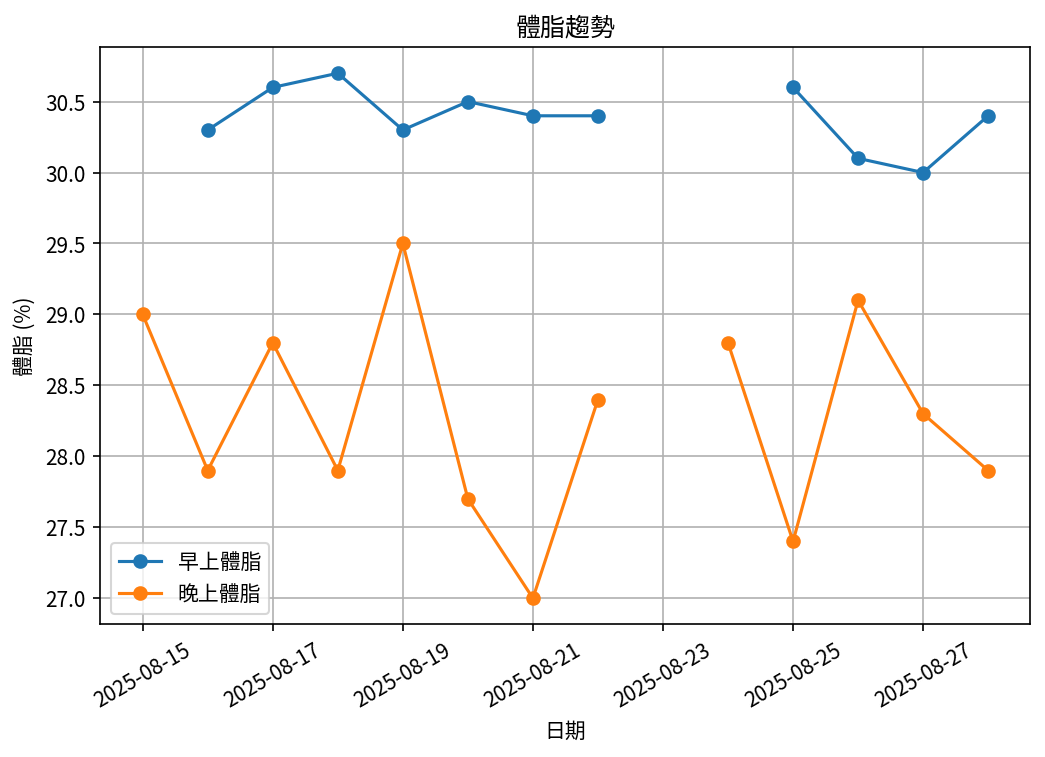
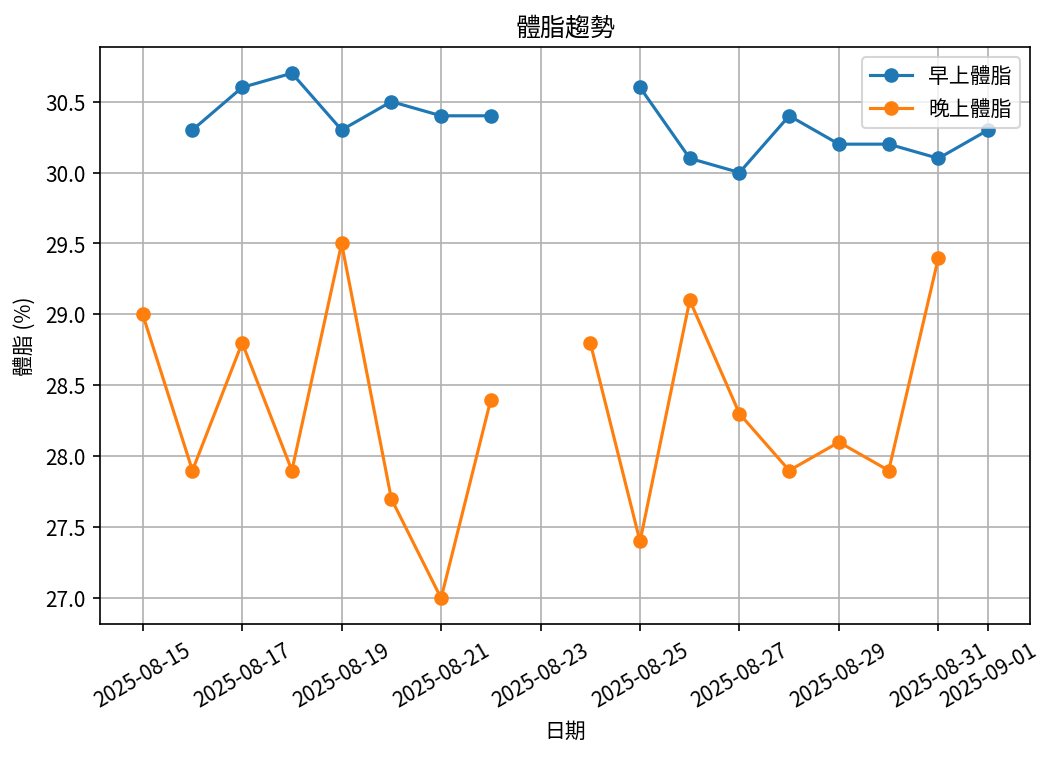
update values

diff --git a/reports/summary/overall_summary_report.md b/reports/summary/overall_summary_report.md
@@ -1,7 +1,7 @@
 # 📊 減重總結報告
 
-**總期間：2025/08/15 ～ 2025/08/28**  
-**追蹤期間：14 天 (2 週)**  
+**總期間：2025/08/15 ～ 2025/09/01**  
+**追蹤期間：18 天 (3 週)**  
 
 ---
 
@@ -10,16 +10,16 @@
 *顯示第一天與最近7天的數據*
 
 | 日期         | 早上體重 (kg)   | 晚上體重 (kg)   | 早上體脂 (%)   | 晚上體脂 (%)   |
-|:-------------|:----------------|:----------------|:---------------|:---------------|
-| 08/15 (週五) | 109.0           | 109.8           | nan            | 29.0           |
-| ...          | ...             | ...             | ...            | ...            |
-| 08/22 (週五) | 106.2           | 106.9           | 30.4           | 28.4           |
-| 08/23 (週六) | nan             | nan             | nan            | nan            |
-| 08/24 (週日) | nan             | 106.5           | nan            | 28.8           |
-| 08/25 (週一) | 105.8           | 106.2           | 30.6           | 27.4           |
-| 08/26 (週二) | 105.6           | 105.9           | 30.1           | 29.1           |
-| 08/27 (週三) | 105.2           | 105.9           | 30.0           | 28.3           |
-| 08/28 (週四) | 104.8           | 105.5           | 30.4           | 27.9           |
+|:-----------|:------------|:------------|:-----------|:-----------|
+| 08/15 (週五) | 109.0       | 109.8       | nan        | 29.0       |
+| ...        | ...         | ...         | ...        | ...        |
+| 08/26 (週二) | 105.6       | 105.9       | 30.1       | 29.1       |
+| 08/27 (週三) | 105.2       | 105.9       | 30.0       | 28.3       |
+| 08/28 (週四) | 104.8       | 105.5       | 30.4       | 27.9       |
+| 08/29 (週五) | 105.1       | 104.7       | 30.2       | 28.1       |
+| 08/30 (週六) | 104.3       | 104.2       | 30.2       | 27.9       |
+| 08/31 (週日) | 103.6       | 104.1       | 30.1       | 29.4       |
+| 09/01 (週一) | 104.0       | nan         | 30.3       | nan        |
 
 ---
 
@@ -32,24 +32,23 @@
 
 ## 📌 總體統計
 
-- **體重（AM）**：109.0 → 104.8 kg  (**-4.2 kg**), 總平均 107.0 kg  
-- **體重（PM）**：109.8 → 105.5 kg  (**-4.3 kg**), 總平均 107.4 kg  
-- **體重（AM+PM 平均）**：107.2 kg  
+- **體重（AM）**：109.0 → 104.0 kg  (**-5.0 kg**), 總平均 106.3 kg  
+- **體重（PM）**：109.8 → 104.1 kg  (**-5.7 kg**), 總平均 106.8 kg  
+- **體重（AM+PM 平均）**：106.6 kg  
 
-- **體脂（AM）**：30.3% → 30.4%  (**0.1%**), 總平均 30.4%  
-- **體脂（PM）**：29.0% → 27.9%  (**-1.1%**), 總平均 28.3%  
+- **體脂（AM）**：30.3% → 30.3%  (**0.0%**), 總平均 30.3%  
+- **體脂（PM）**：29.0% → 29.4%  (**0.4%**), 總平均 28.3%  
 - **體脂（AM+PM 平均）**：29.3%  
 
-- **追蹤天數**：14 天  
-- 平均每週體重變化（AM）：-2.1 kg/週  
-- 平均每週體重變化（PM）：-2.1 kg/週
+- **追蹤天數**：18 天  
+- 平均每週體重變化（AM）：-1.7 kg/週  
+- 平均每週體重變化（PM）：-1.9 kg/週
 
 ---
 
 ## 🎯 重點成果
 
-✅ **體重減少**：在 14 天內減重 4.2 kg（早上測量）  
-✅ **體脂下降**：體脂率降低 1.1%（晚上測量）  
+✅ **體重減少**：在 18 天內減重 5.0 kg（早上測量）  
 
 ## ✅ 持續建議
 - 維持 **高蛋白 (每公斤 1.6–2.0 g)** 與 **每週 2–3 次阻力訓練**  

diff --git a/reports/2025-CW03/2025-CW03_weekly_report.md b/reports/2025-CW03/2025-CW03_weekly_report.md
@@ -1,0 +1,42 @@
+# 📊 減重週報（2025-CW03）
+
+**週期：2025/08/29 ～ 2025/09/04**  
+
+---
+
+## 📈 體重與體脂紀錄
+
+| 日期         |   早上體重 (kg) |   晚上體重 (kg) |   早上體脂 (%) |   晚上體脂 (%) |
+|:-----------|------------:|------------:|-----------:|-----------:|
+| 08/29 (週五) |       105.1 |       104.7 |       30.2 |       28.1 |
+| 08/30 (週六) |       104.3 |       104.2 |       30.2 |       27.9 |
+| 08/31 (週日) |       103.6 |       104.1 |       30.1 |       29.4 |
+| 09/01 (週一) |       104   |       nan   |       30.3 |      nan   |
+
+---
+
+## 📊 趨勢圖
+
+![體重趨勢](2025-CW03_weight_trend.png)
+![體脂率趨勢](2025-CW03_bodyfat_trend.png)
+
+---
+
+## 📌 本週統計
+
+- 體重（AM）：105.1 → 104.0 kg  (**-1.1 kg**), 週平均 104.2 kg  
+- 體重（PM）：104.7 → 104.1 kg  (**-0.6 kg**), 週平均 104.3 kg  
+- 體重（AM+PM 平均）：104.3 kg  
+
+- 體脂（AM）：30.2% → 30.3%  (**0.1%**), 週平均 30.2%  
+- 體脂（PM）：28.1% → 29.4%  (**1.3%**), 週平均 28.5%  
+- 體脂（AM+PM 平均）：29.3%  
+
+- 紀錄天數：4 天
+
+---
+
+## ✅ 建議
+- 維持 **高蛋白 (每公斤 1.6–2.0 g)** 與 **每週 2–3 次阻力訓練**  
+- 飲水 **≥ 3 L/天**（依活動量調整）  
+- 若每週下降 > 2.5 kg，建議微調熱量或與醫師討論  
